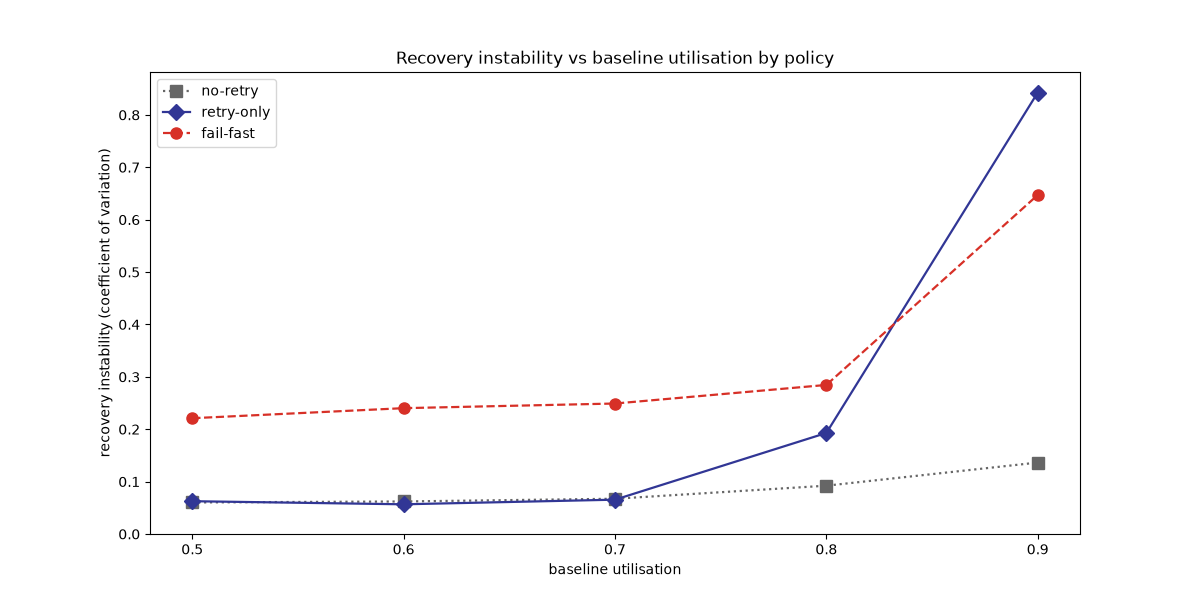
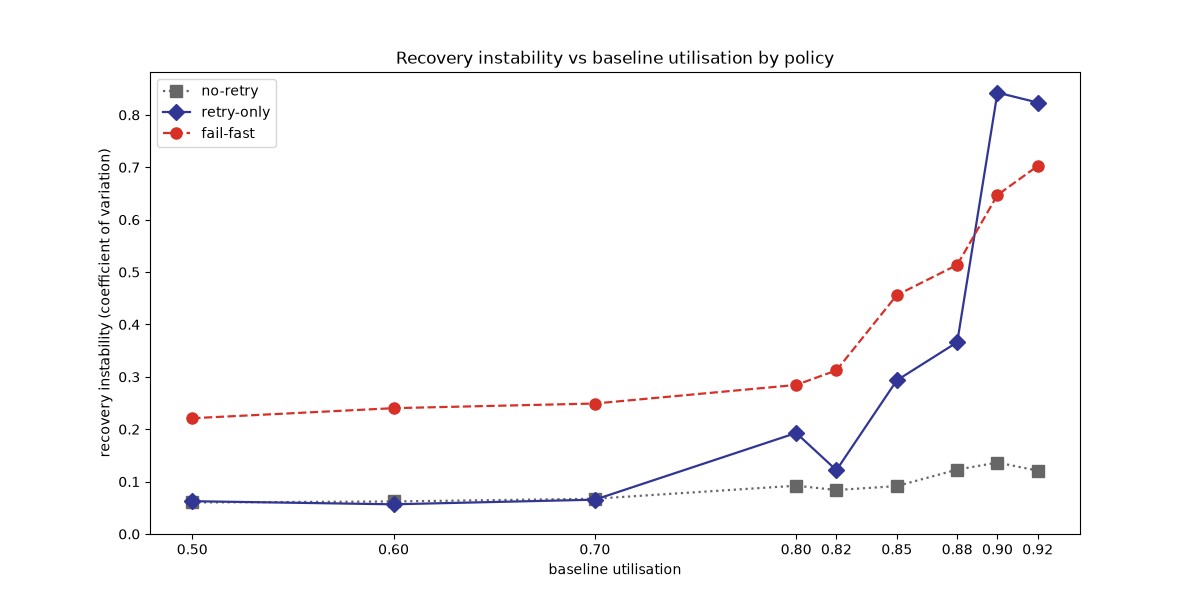
feat: refine phase utilisation grid around the tripping onset

diff --git a/sim/src/main/java/retrystorm/scenario/PhaseExperiment.java b/sim/src/main/java/retrystorm/scenario/PhaseExperiment.java
@@ -24,7 +24,8 @@ import retrystorm.policy.RetryPolicy;
  */
 public final class PhaseExperiment {
 
-    public static final List<Double> DEFAULT_UTILISATIONS = List.of(0.5, 0.6, 0.7, 0.8, 0.9);
+    public static final List<Double> DEFAULT_UTILISATIONS =
+            List.of(0.5, 0.6, 0.7, 0.8, 0.82, 0.85, 0.88, 0.9, 0.92);
     public static final int HERD_CLIENTS = 100;
 
     private static final String HEADER =

diff --git a/EXPERIMENTS.md b/EXPERIMENTS.md
@@ -97,7 +97,7 @@ cd sim && ./gradlew run --args="phase"
 
 Output: `results/phase.csv`.
 Columns: `policy,utilisation,seed,baseline_goodput,recovery_goodput,recovery_instability`.
-Sweeps baseline utilisation 0.5, 0.6, 0.7, 0.8, 0.9 (baseline arrival rate as a
+Sweeps baseline utilisation 0.5, 0.6, 0.7, 0.8, 0.82, 0.85, 0.88, 0.9, 0.92 (baseline arrival rate as a
 fraction of the 1000 req/s capacity) with the overload spike held at 2500 req/s,
 over seeds 42–46, at 100 independent clients. Policies: `no-retry`, `retry-only`
 breaker, `fail-fast` breaker, and `fixed-retry` (plain retry, no breaker, as a
@@ -137,7 +137,7 @@ cd sim && ./gradlew run --args="analyze-breaker-state"
 Output: `results/breaker_state.csv`.
 Columns: `breaker,utilisation,seed,baseline_tripped_fraction`.
 Reruns the retry-only and fail-fast breakers with 100 independent clients at
-utilisations 0.5, 0.6, 0.7, 0.8, 0.9 over seeds 42-46, and samples every
+utilisations 0.5, 0.6, 0.7, 0.8, 0.82, 0.85, 0.88, 0.9, 0.92 over seeds 42-46, and samples every
 breaker's open/half-open state every 10 ms across the baseline window (0-20 s,
 before any overload). Reports the fraction of breaker-samples spent tripped.
 Demonstrated that below 0.9 utilisation both breakers stay closed for the whole
